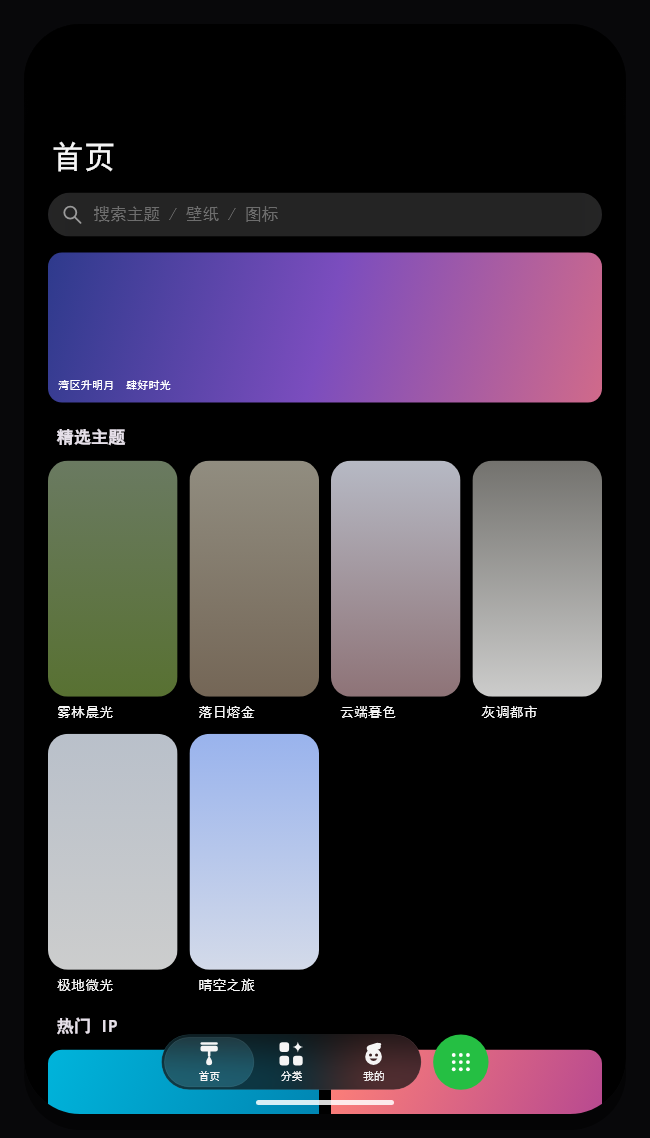
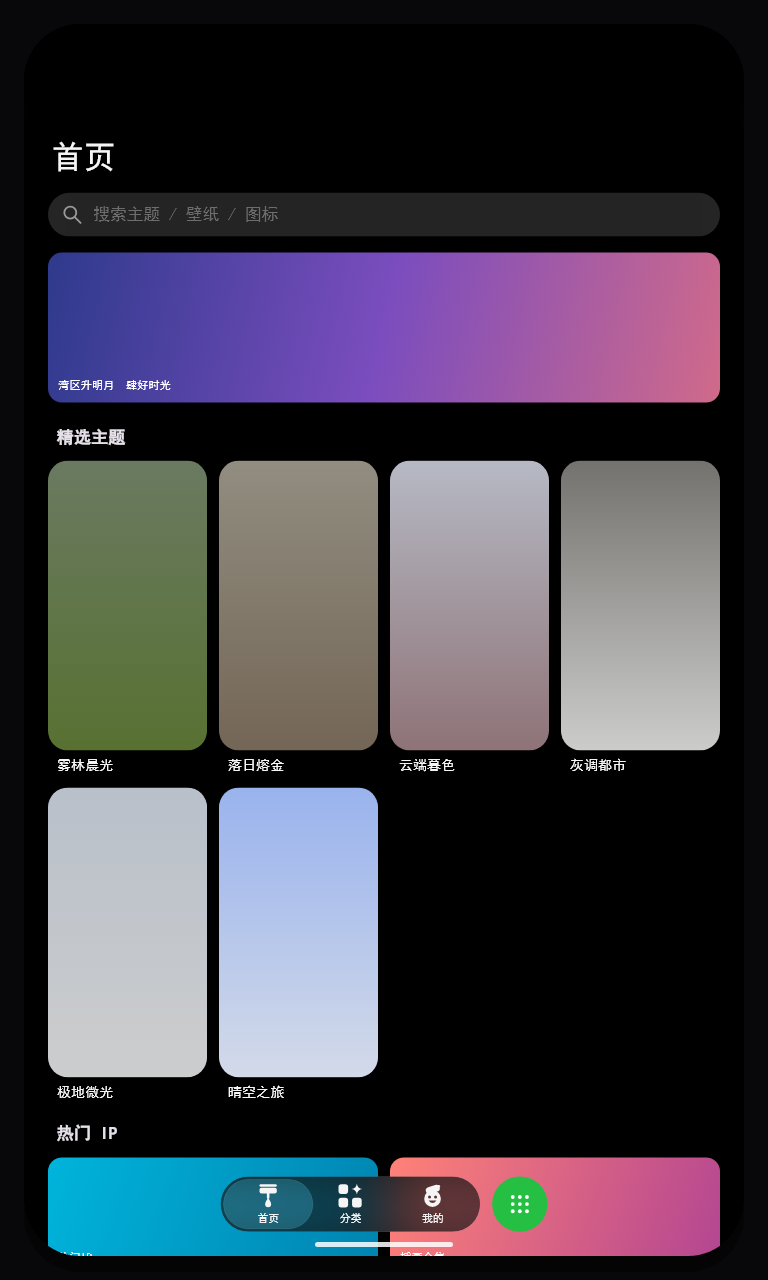
test(stage): 平板回归尺寸修正为真实 768x1280（截图 1536x2560@2x）
截图原始像素 1536x2560、dpr 2 → 逻辑 768x1280（medium 档），此前按缩略显示误记
650x1138。用例与 adaptive_tablet.png 一并改为 768x1280：舞台 720x1232、内容宽
672 → 主题卡 4 列。

Changed region(s): [[0.0615, 0.0923, 0.9538, 0.9842]]

diff --git a/test/responsive_test.dart b/test/responsive_test.dart
@@ -137,11 +137,11 @@ void main() {
       expect(frame.rendered, frame.logical);
       expect(frame.isScaled, isFalse);
 
-      // 实机反馈尺寸（2026-10-17 平板截图 650×1138）：可用 602×1090，
-      // 旧策略只画 393×856 的小手机（占屏高 64%，上下各留 170/240px），
-      // 现在铺满 → 舞台 602×1090
-      final pad = DemoStage.sizeFor(const Size(650, 1138));
-      expect(pad.logical, const Size(602, 1090));
+      // 实机反馈尺寸（2026-10-17 平板截图 1536×2560 @2x → 768×1280 逻辑）：
+      // 可用 720×1232。旧策略下只画 393×856 小手机（占屏高 67%，上下各留
+      // 188/236px 纯黑），现在铺满 → 舞台 720×1232
+      final pad = DemoStage.sizeFor(const Size(768, 1280));
+      expect(pad.logical, const Size(720, 1232));
       expect(pad.rendered, pad.logical);
       expect(pad.isScaled, isFalse);
     });
@@ -203,8 +203,8 @@ void main() {
       expect(page.height, closeTo(856, 0.01));
     });
 
-    testWidgets('650×1138 平板：画面铺满可用空间、无溢出', (tester) async {
-      setWindow(tester, const Size(650, 1138));
+    testWidgets('768×1280 平板：画面铺满可用空间、无溢出', (tester) async {
+      setWindow(tester, const Size(768, 1280));
       addTearDown(tester.view.reset);
 
       await tester.pumpWidget(const DemoApp());
@@ -212,12 +212,12 @@ void main() {
       expect(tester.takeException(), isNull);
 
       final page = tester.getRect(find.byType(MockPage));
-      // 舞台 = 窗口减两侧 24 留白：602×1090（旧策略这里是 393×856 的小手机）
-      expect(page.width, closeTo(602, 0.01));
-      expect(page.height, closeTo(1090, 0.01));
+      // 舞台 = 窗口减两侧 24 留白：720×1232（旧策略这里是 393×856 的小手机）
+      expect(page.width, closeTo(720, 0.01));
+      expect(page.height, closeTo(1232, 0.01));
       expect(page.left, greaterThanOrEqualTo(0));
-      expect(page.right, lessThanOrEqualTo(650.01));
-      expect(page.bottom, lessThanOrEqualTo(1138.01));
+      expect(page.right, lessThanOrEqualTo(768.01));
+      expect(page.bottom, lessThanOrEqualTo(1280.01));
     });
 
     testWidgets('窗口尺寸实时变化会重排（无需重建 App）', (tester) async {

diff --git a/test/preview_capture_test.dart b/test/preview_capture_test.dart
@@ -163,8 +163,8 @@ void main() {
       const Size(260, 470),
       '../doc/preview/adaptive_small_window.png',
     );
-    // medium：平板竖屏（实机反馈尺寸 650×1138），画面铺成内容舞台
-    await capture(const Size(650, 1138), '../doc/preview/adaptive_tablet.png');
+    // medium：平板竖屏（实机 1536×2560 @2x → 768×1280），画面铺成内容舞台
+    await capture(const Size(768, 1280), '../doc/preview/adaptive_tablet.png');
     // expanded：桌面，画面加宽成内容舞台（主题卡 6 列）
     await capture(
       const Size(1366, 768),

diff --git a/.workbuddy/memory/2026-10-17.md b/.workbuddy/memory/2026-10-17.md
@@ -156,3 +156,6 @@ compact 等比缩 393×856（手机全屏 1:1）、medium 留 24 居中 1x、exp
 验证：`responsive_test` 加 650×1138 用例（舞台 602×1090、无溢出、完整在窗口内），
 medium 纯函数用例改为断言 752×952；`adaptive_tablet.png` 按 650×1138 重生成；
 `dart analyze` 0 error、`flutter test` **89 项全绿**。
+
+补：平板截图实际是 **1536×2560@2x → 768×1280 逻辑**（不是 650×1138，那是缩略显示），
+回归尺寸与 `adaptive_tablet.png` 均已按 768×1280 修正（舞台 720×1232、内容宽 672 → 4 列）。
